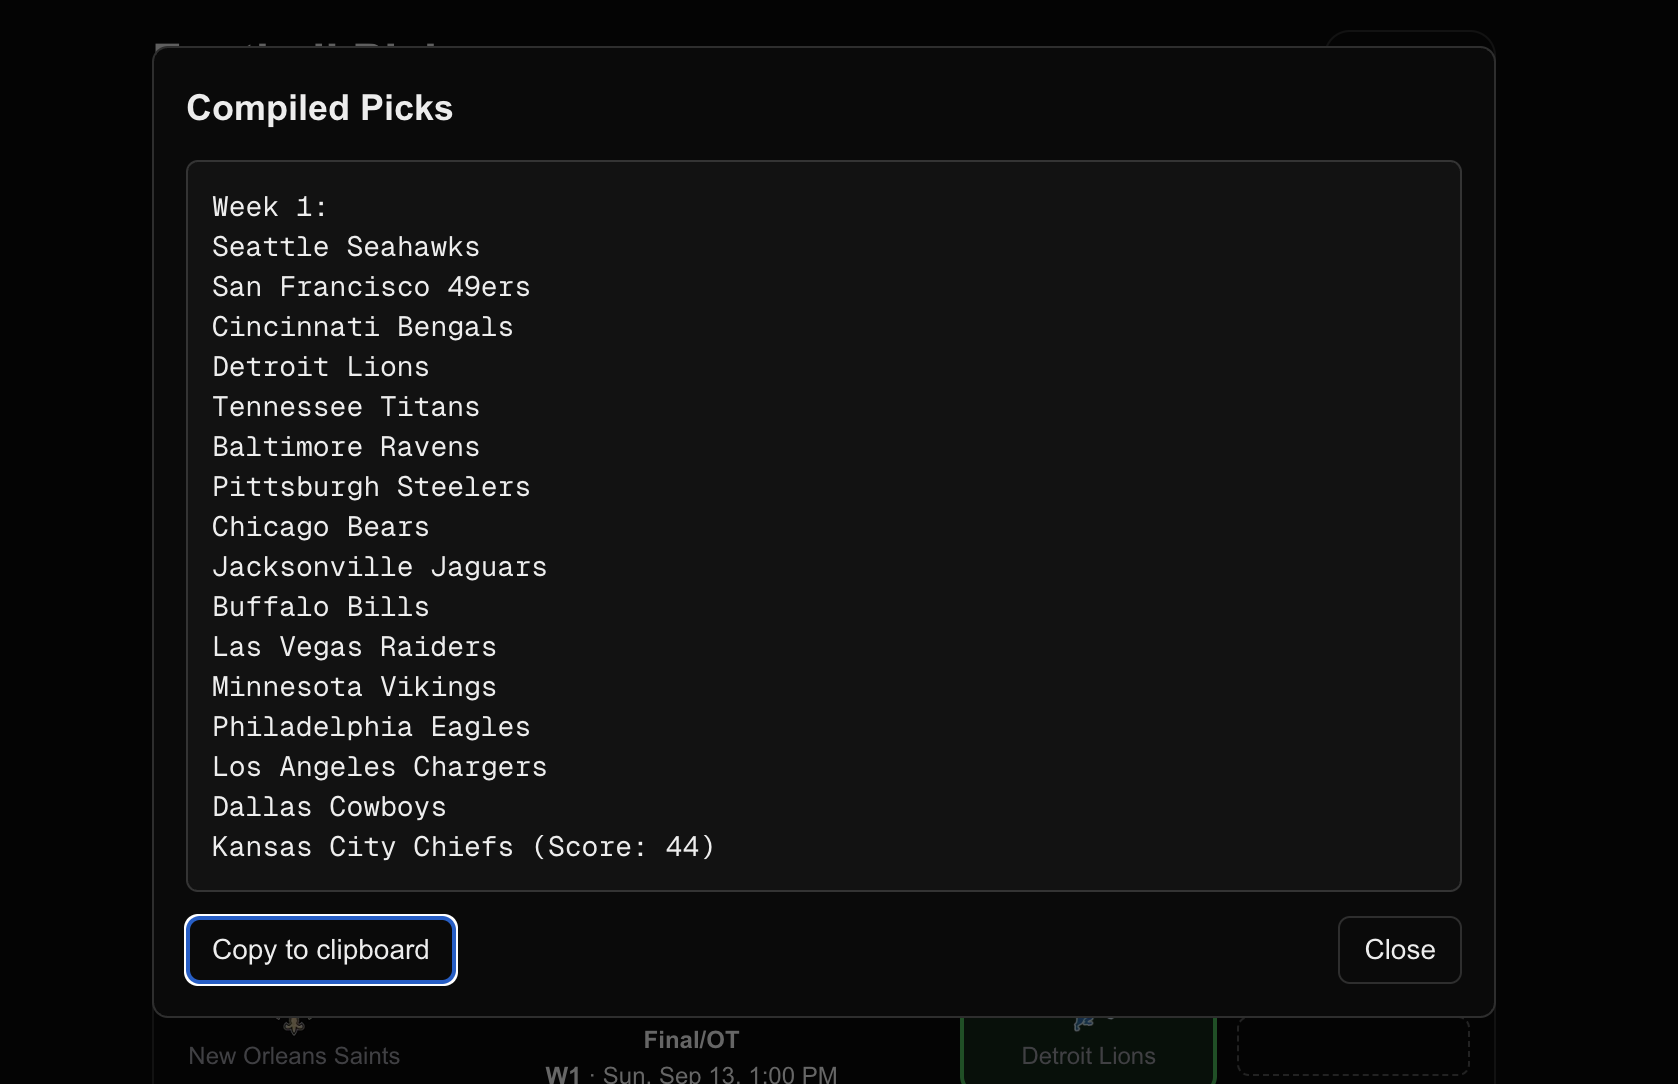
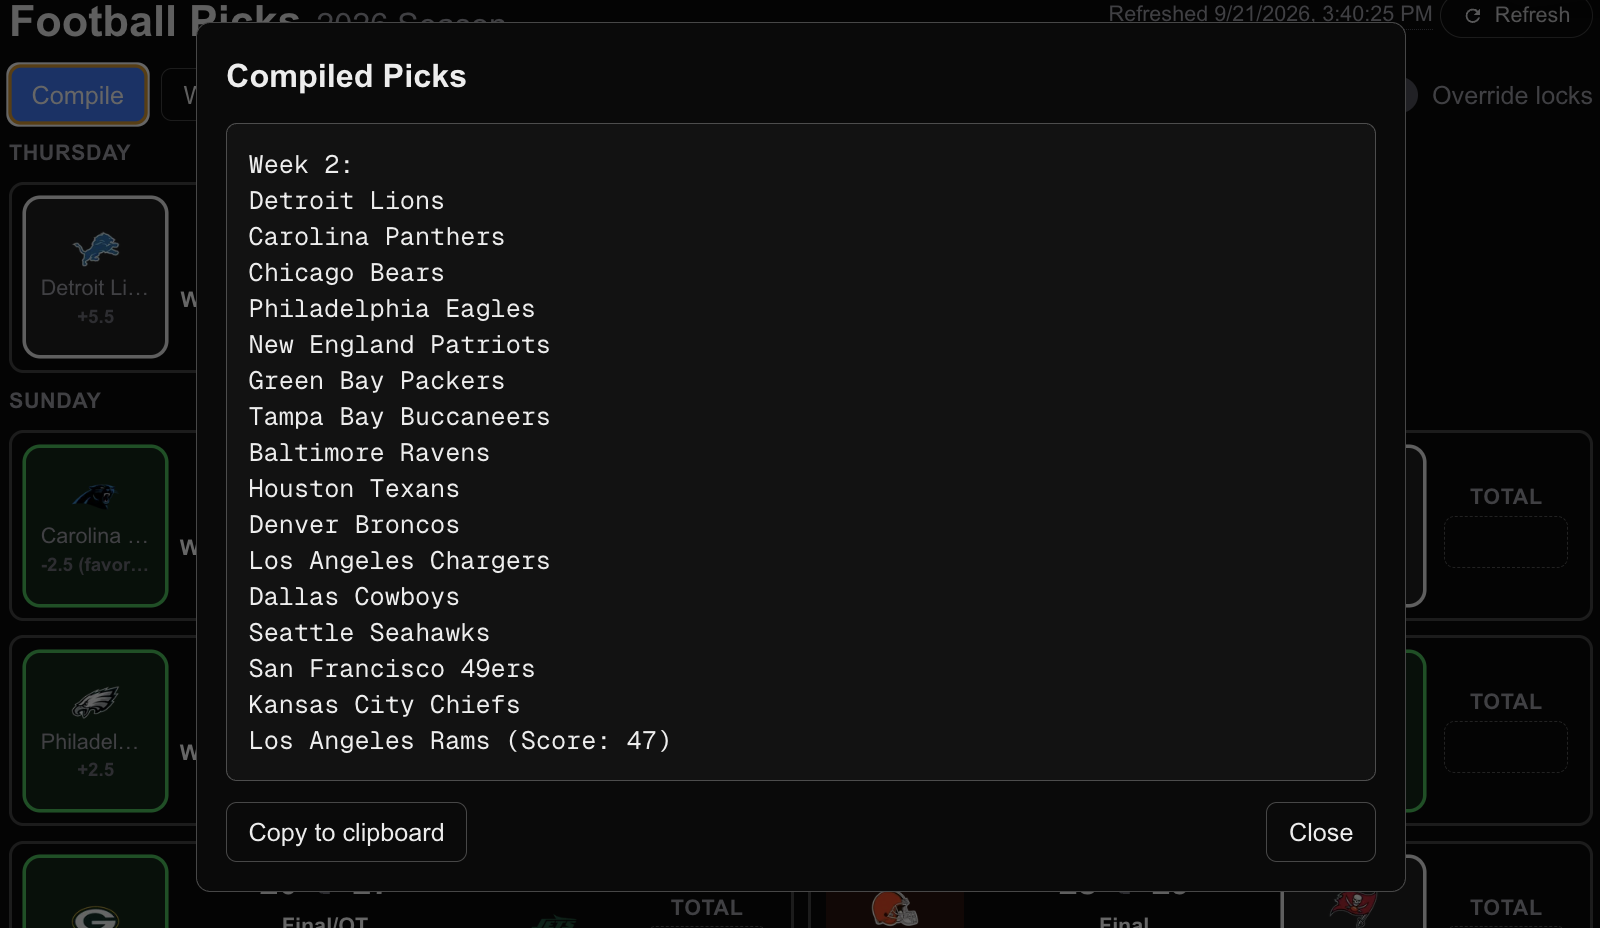
docs: screenshots and betting odds description updated (#13)

diff --git a/README.md b/README.md
@@ -1,10 +1,10 @@
 # Football Picks
 
-![screenshot of running site as of 2026-09-14](docs/screenshot-main.png)
+![screenshot of running site (as of 2026-09-21)](docs/screenshot-main.png)
 
-A personal NFL "pick 'em" tracker: pick the winner of every game each week,
-optionally add a tiebreaker score-total guess, and see it all laid out by
-season and week. It's a [Next.js](https://nextjs.org) app.
+A [NextJS](https://nextjs.org) app for a personal NFL "pick 'em" tracker:
+pick the winner of every game each week, optionally add a tiebreaker score-total guess,
+and see it all laid out by season and week.
 
 ## Features
 
@@ -21,19 +21,29 @@ season and week. It's a [Next.js](https://nextjs.org) app.
 - **Filters** for team, game status (upcoming/in-progress/final), and game
   day, plus bye-week callouts per week.
 
-- **Betting odds**, pulled from ESPN, in a modal per game: spread,
-  moneyline, and total (over/under) lines, each shown at open, current, and
-  (once available) close. Odds sync automatically for in-progress games and
-  upcoming games nearing kickoff, with a manual refresh button in the modal
-  for anytime else.
+- **Live refresh status** showing when scores were last synced from ESPN,
+  with a manual refresh button.
+
+- **Betting odds**, pulled from ESPN's public API. Current spreads, moneylines,
+  and expected score total are displayed in a separate modal per game,
+  accessible from each game list item.
+  The favored team to win is indicated, and the current spread is pulled into
+  the selector for the team within the game list.
+
+  ![modal view of game odds, spreads, moneylines, etc (as of 2026-09-21)](docs/screenshot-odds-modal.png)
 
 - **Compile view**: turns a week's picks into a plain-text list, ready to
   copy and paste elsewhere:
 
-  ![modal view for "compiled" list of winners](docs/screenshot-compiled-modal.png)
+  ![modal view for "compiled" list of winners (as of 2026-09-21)](docs/screenshot-compiled-modal.png)
 
-- **Live refresh status** showing when scores were last synced from ESPN,
-  with a manual refresh button.
+  If any teams have not yet been selected,
+  this view shows their game list items, allowing for quick entries without leaving the modal:
+
+  ![modal view for "compiled" list that is missing entries (as of 2026-09-21)](docs/screenshot-compiled-with-missing.png)
+
+  You can open Odds for a game from within this modal, as well.
+  Modals stack, so closing the Odds modal will not close the Compiled modal behind it!
 
 ## Getting Started
 
